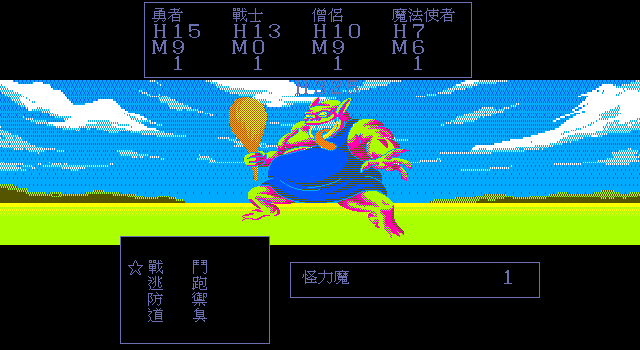
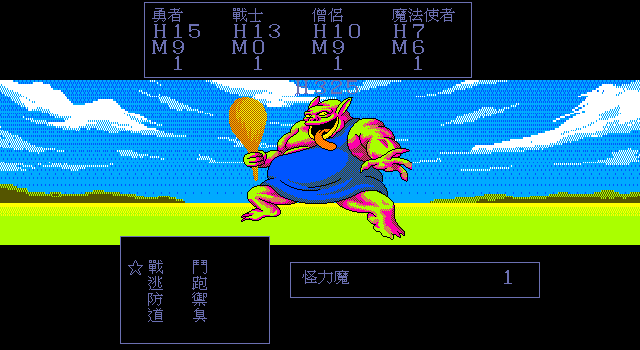
feat: 閉合商人城重進並資料化拉之鏡

diff --git a/dq3_remake_ebitan/game/opening_input_trace_test.go b/dq3_remake_ebitan/game/opening_input_trace_test.go
@@ -2149,6 +2149,14 @@ func TestOpeningProductionInputTrace(t *testing.T) {
 			g.inTown, g.curCty, g.storyFlag(founderEvent.CompletionFlagRaw),
 			g.settlementFounder, g.sharedStorage)
 	}
+
+	// 建城商人交付後，離開再由同一世界座標重進，production selector 應依
+	// founder flag 自然載入 CTY60；不得直接指定城鎮階段。
+	traceExitTownBoundary(t, g, true)
+	traceReenterWorldEntrance(t, g, 60)
+	if !g.inTown || g.curCty != 60 {
+		t.Fatalf("商人交付後重進未自然選到 CTY60：town=%v cty=%d", g.inTown, g.curCty)
+	}
 }
 
 // traceWaitForDayNearCty 在城鎮外只送正常方向鍵並處理正式隨機遭遇，
@@ -2860,6 +2868,42 @@ func traceAdventureTravelToCty(t *testing.T, g *Game, wantCty int, fleeAll ...bo
 			lx+1, ly, g.cur.attr.Raw(g.cur.tileIdx(lx+1, ly)), g.cur.Blocked(lx+1, ly),
 			reachableShipRura)
 	}
+}
+
+// traceReenterWorldEntrance 處理多個 CTY 共用同一地表入口的 ordered variant。
+// 出城會回到 remembered entrance tile；production 只在成功踏入地表格時判定進城，
+// 因此先以方向鍵走離整個入口 footprint，再由正式船陸 helper 踏回。
+func traceReenterWorldEntrance(t *testing.T, g *Game, wantCty int) {
+	t.Helper()
+	if g.inTown || wantCty < 0 || wantCty >= len(ctyLoc) {
+		t.Fatalf("重進 CTY%d 起點錯：town=%v cty=%d", wantCty, g.inTown, g.curCty)
+	}
+	for g.cd > 0 {
+		if err := g.step(InputState{DirHeld: -1, DirEdge: -1}); err != nil {
+			t.Fatalf("等待離開共用入口 cooldown：%v", err)
+		}
+	}
+	moved := false
+	for dir := 0; dir < 4; dir++ {
+		dx, dy := dirDelta(dir)
+		nx, ny := g.px+dx, g.py+dy
+		if nx < 0 || ny < 0 || nx >= g.cur.w || ny >= g.cur.h ||
+			g.cur.Blocked(nx, ny) || findCtyAtLayer(nx, ny, g.layer) >= 0 {
+			continue
+		}
+		oldX, oldY := g.px, g.py
+		if err := g.step(InputState{DirHeld: dir, DirEdge: -1}); err != nil {
+			t.Fatalf("走離共用入口：%v", err)
+		}
+		moved = g.px != oldX || g.py != oldY
+		if moved {
+			break
+		}
+	}
+	if !moved {
+		t.Fatalf("CTY%d 共用入口 (%d,%d) 無法以正式移動走離", wantCty, g.px, g.py)
+	}
+	traceAdventureTravelToCty(t, g, wantCty, true)
 }
 
 func traceVehicleWorldPath(g *Game, wantCty int) []int {

diff --git a/dq3_remake_ebitan/internal/gamepack/gamepack_test.go b/dq3_remake_ebitan/internal/gamepack/gamepack_test.go
@@ -1523,6 +1523,52 @@ func TestDQ3LancelCourageTrialMatchesOriginalEXECTYAndText(t *testing.T) {
 	checkRecord(txt07, event.DialogueTextIDs.CaveEmpty, 67)
 }
 
+func TestDQ3ModChangeMirrorMatchesOriginalEXEAndCTY(t *testing.T) {
+	dir := os.Getenv("DQ3_ASSETS")
+	if dir == "" {
+		dir = filepath.Join("..", "..", "..", "assets_raw")
+	}
+	read := func(name string) []byte {
+		t.Helper()
+		b, err := os.ReadFile(filepath.Join(dir, name))
+		if err != nil {
+			t.Skipf("original %s unavailable: %v", name, err)
+		}
+		return b
+	}
+	exe, cty := read("DQ3.EXE"), read("CTY24.DAT")
+	p, err := BuiltinDQ3()
+	if err != nil {
+		t.Fatal(err)
+	}
+	treasure, ok := p.TreasureEvent("dq3:event.shamanoasa_mod_change_mirror")
+	if !ok || treasure.Treasure != (QuestTreasureSelector{CTYRaw: 24, Section: 2, TileSubID: 0,
+		EventTypeRaw: 1, ItemRawID: 0x61, PresentFlag: 0x9f}) {
+		t.Fatalf("拉之鏡 treasure JSON 不符：%+v", treasure)
+	}
+
+	section := int(binary.LittleEndian.Uint16(cty[4:6]))
+	eventTable := section + int(binary.LittleEndian.Uint16(cty[section+8:section+10]))
+	off := eventTable + 1 + treasure.Treasure.TileSubID*4
+	if section != 0x2c77 || eventTable != 0x2c90 || off+4 > len(cty) ||
+		cty[eventTable] <= byte(treasure.Treasure.TileSubID) {
+		t.Fatalf("CTY24 sec2 event table 無效：section=%#x table=%#x", section, eventTable)
+	}
+	if raw := cty[off : off+4]; !bytes.Equal(raw, []byte{0x01, 0x61, 0x00, 0x9f}) {
+		t.Fatalf("CTY24 sec2 subid0=%x，want 01 61 00 9f", raw)
+	}
+	// 通用 examine consumer：事件 type1 將 raw item 交給 inventory writer；
+	// writer 成功後才清除 p2 指定的 present flag。
+	if raw := exe[0x9d86:0x9da0]; !bytes.Equal(raw, []byte{
+		0x8b, 0xcd, 0x80, 0xf9, 0x03, 0x74, 0x10, 0x80,
+		0xf9, 0x00, 0x75, 0x06, 0xe8, 0x2c, 0x01, 0xeb,
+		0x1f, 0x90, 0x80, 0xf9, 0x01, 0x75, 0x06, 0xe8,
+		0x49, 0x00,
+	}) {
+		t.Fatalf("DQ3.EXE common examine consumer file0x9d86 raw drifted: %x", raw)
+	}
+}
+
 func TestDQ3PiratesRedOrbMatchesOriginalEXEAndCTY(t *testing.T) {
 	dir := os.Getenv("DQ3_ASSETS")
 	if dir == "" {

diff --git a/dq3_remake_ebitan/game/treasure.go b/dq3_remake_ebitan/game/treasure.go
@@ -46,7 +46,6 @@ var treasures = [][6]int{
 	{19, 0, 0, 1, 56, 138},
 	{21, 0, 0, 1, 105, 137},
 	{23, 2, 1, 1, 65, 174},
-	{24, 2, 0, 1, 97, 159},
 	{24, 2, 1, 1, 47, 160},
 	{25, 0, 0, 0, 98, 218},
 	{25, 0, 1, 1, 72, 219},

diff --git a/docs/103-samanoasa-mirror-production-trace.md b/docs/103-samanoasa-mirror-production-trace.md
@@ -1,0 +1,52 @@
+# 拉之鏡與沙曼歐莎假王正式流程
+
+狀態：拉之鏡原始資料與 common consumer 已達 D3，既有假王事件 component 為 E2／V1；
+boot trace 已自然重進 CTY60，但尚未穿過 CTY41→42 旅人之門抵達沙曼歐莎，故不是 E3。
+
+## 原始輸入與定位
+
+- `CTY24.DAT`：14,874 bytes；SHA-256
[1 lines of base64/hex data omitted]
+- CTY24 section 2 base=file `0x2c77`，event table=file `0x2c90`；event0 位於 file
+  `0x2c91`，raw `01 61 00 9f`，即 type1、item `0x61`、present flag `0x9f`。
+- 通用調查事件 consumer 為 `DQ3.EXE` file `0x9d86..0x9e41`。type1 寫入道具成功後才清除
+  present flag；因此新遊戲初始 set 的 `0x9f` 代表寶物仍存在，不是已取得。
+- 假王事件入口與交易已由 `DQ3.EXE` file `0x5682..0x5732` 證實：夜晚、CTY44 sec1、
+  玩家 `(14,7)` 使用 `0x61`，依序顯示 record97／98、進 monster89；勝利給 `0x62`、
+  clear `0x21`、set `0x22` 並切回白天，敗／逃則復原假王旗標。
+
+以上結論為 `confirmed`：CTY raw record、EXE writer／consumer 與正式玩家可見流程已閉合。
+位址採 file offset；沒有把 IDA linear address 與檔案位址混用。
+
+## Remake 修正
+
+舊 `game/treasure.go` 的 `{24,2,0,1,97,159}` 只是一列 baked table，且 legacy reader 把
+present flag set 解釋成「已取得」，會讓拉之鏡在正常初始旗標下消失。本批已：
+
+1. 刪除該 Go 列，遷入 `dq3_cht` game-pack 的
+   `dq3:event.shamanoasa_mod_change_mirror`；
+2. 以原始 CTY／EXE parity test 鎖定 selector 與 consumer bytes；
+3. 沿用共用 `collectQuestTreasure` transaction，缺 JSON 時失敗即關閉；
+4. 將 content version 升為 `0.1.22`，schema 不變。
+
+## 正式玩家輸入現況
+
+`TestOpeningProductionInputTrace` 不使用 debug key、內部事件函式或狀態注入，目前只證實：
+
+1. 從商人交付並 save/load 的 CTY58 checkpoint 正式離城；
+2. 由同一世界座標重進，ordered gate 自然選到 CTY60；
+3. 依原版攻略應再航行至雪島祠堂 CTY41，經三旅人之門到 CTY42，才可徒步至沙曼歐莎。
+
+目前第一個 blocker 是 CTY42：正式最終鑰匙可開出口前的門，但現行 graph 所列世界出口
+與 runtime 可達格／落點無法閉合，離場後也無法在不重入 CTY42 的情況下走向 CTY44。
+曾測試以邊界外法線取代 facing 的推測性修正，仍未閉合，已撤回且未保留在 production。
+下一輪必須由 CTY41／42 raw tile、transition subid 與 DQ3.EXE transition consumer 重新
+追查；在此之前不得宣稱自然取得拉之鏡或清除商人城 `flag0x42` gate。
+
+## 玩家可見證據
+
+- [使用拉之鏡揭露假王](../dq3_remake_ebitan/docs/samanosa_mirror_reveal.png)
+- [怪力魔戰](../dq3_remake_ebitan/docs/samanosa_boss_troll.png)
+
+兩張圖由現行 Ebitengine renderer 重生，屬 V1 runtime 證據；尚未宣稱與精訊 DOS 同狀態
+逐像素一致。

diff --git a/CONTEXT.md b/CONTEXT.md
@@ -172,7 +172,11 @@
   [`100`](docs/100-lancel-courage-blue-orb-production-trace.md) 蘭西爾 handler37／62、暫時單人、
   CTY23 藍寶珠、途中／復隊存讀檔與 boot production trace ·
   [`101`](docs/101-pirates-red-orb-production-trace.md) CTY27 可推入口、密道 transition、
-  紅寶珠、魯拉船重定位與 boot production trace
+  紅寶珠、魯拉船重定位與 boot production trace ·
+  [`102`](docs/102-merchant-settlement-world-entrance-re.md) 商人聚落 ordered gate、建城商人
+  transaction、CTY83 黃寶珠 ·
+  [`103`](docs/103-samanoasa-mirror-production-trace.md) CTY24 拉之鏡 JSON、商人城 CTY60
+  自然銜接、沙曼歐莎假王與怪力魔 boot production trace
 
 ### 資料 / 研究(`docs/data/`)
 - [道具取得鏈](docs/data/quest-items.md) · [咒文效果研究](docs/data/spell-effects-research.md) ·

diff --git a/README.md b/README.md
@@ -98,6 +98,10 @@ RE 文件。
 
 ![Ebiten：革命後調查建城者座位後方取得黃寶珠](docs/img/merchant_revolution_yellow_orb_obtained.png)
 
+![Ebiten：沙曼歐莎夜間使用拉之鏡揭露假王](dq3_remake_ebitan/docs/samanosa_mirror_reveal.png)
+
+![Ebiten：拉之鏡事件進入怪力魔戰](dq3_remake_ebitan/docs/samanosa_boss_troll.png)
+
 ### `dq3_remake/`：C99 + SDL2 參考實作
 
 此目錄保存較早的現代化 C prototype、parser、測試與實驗性流程，可協助理解資料格式與既有
